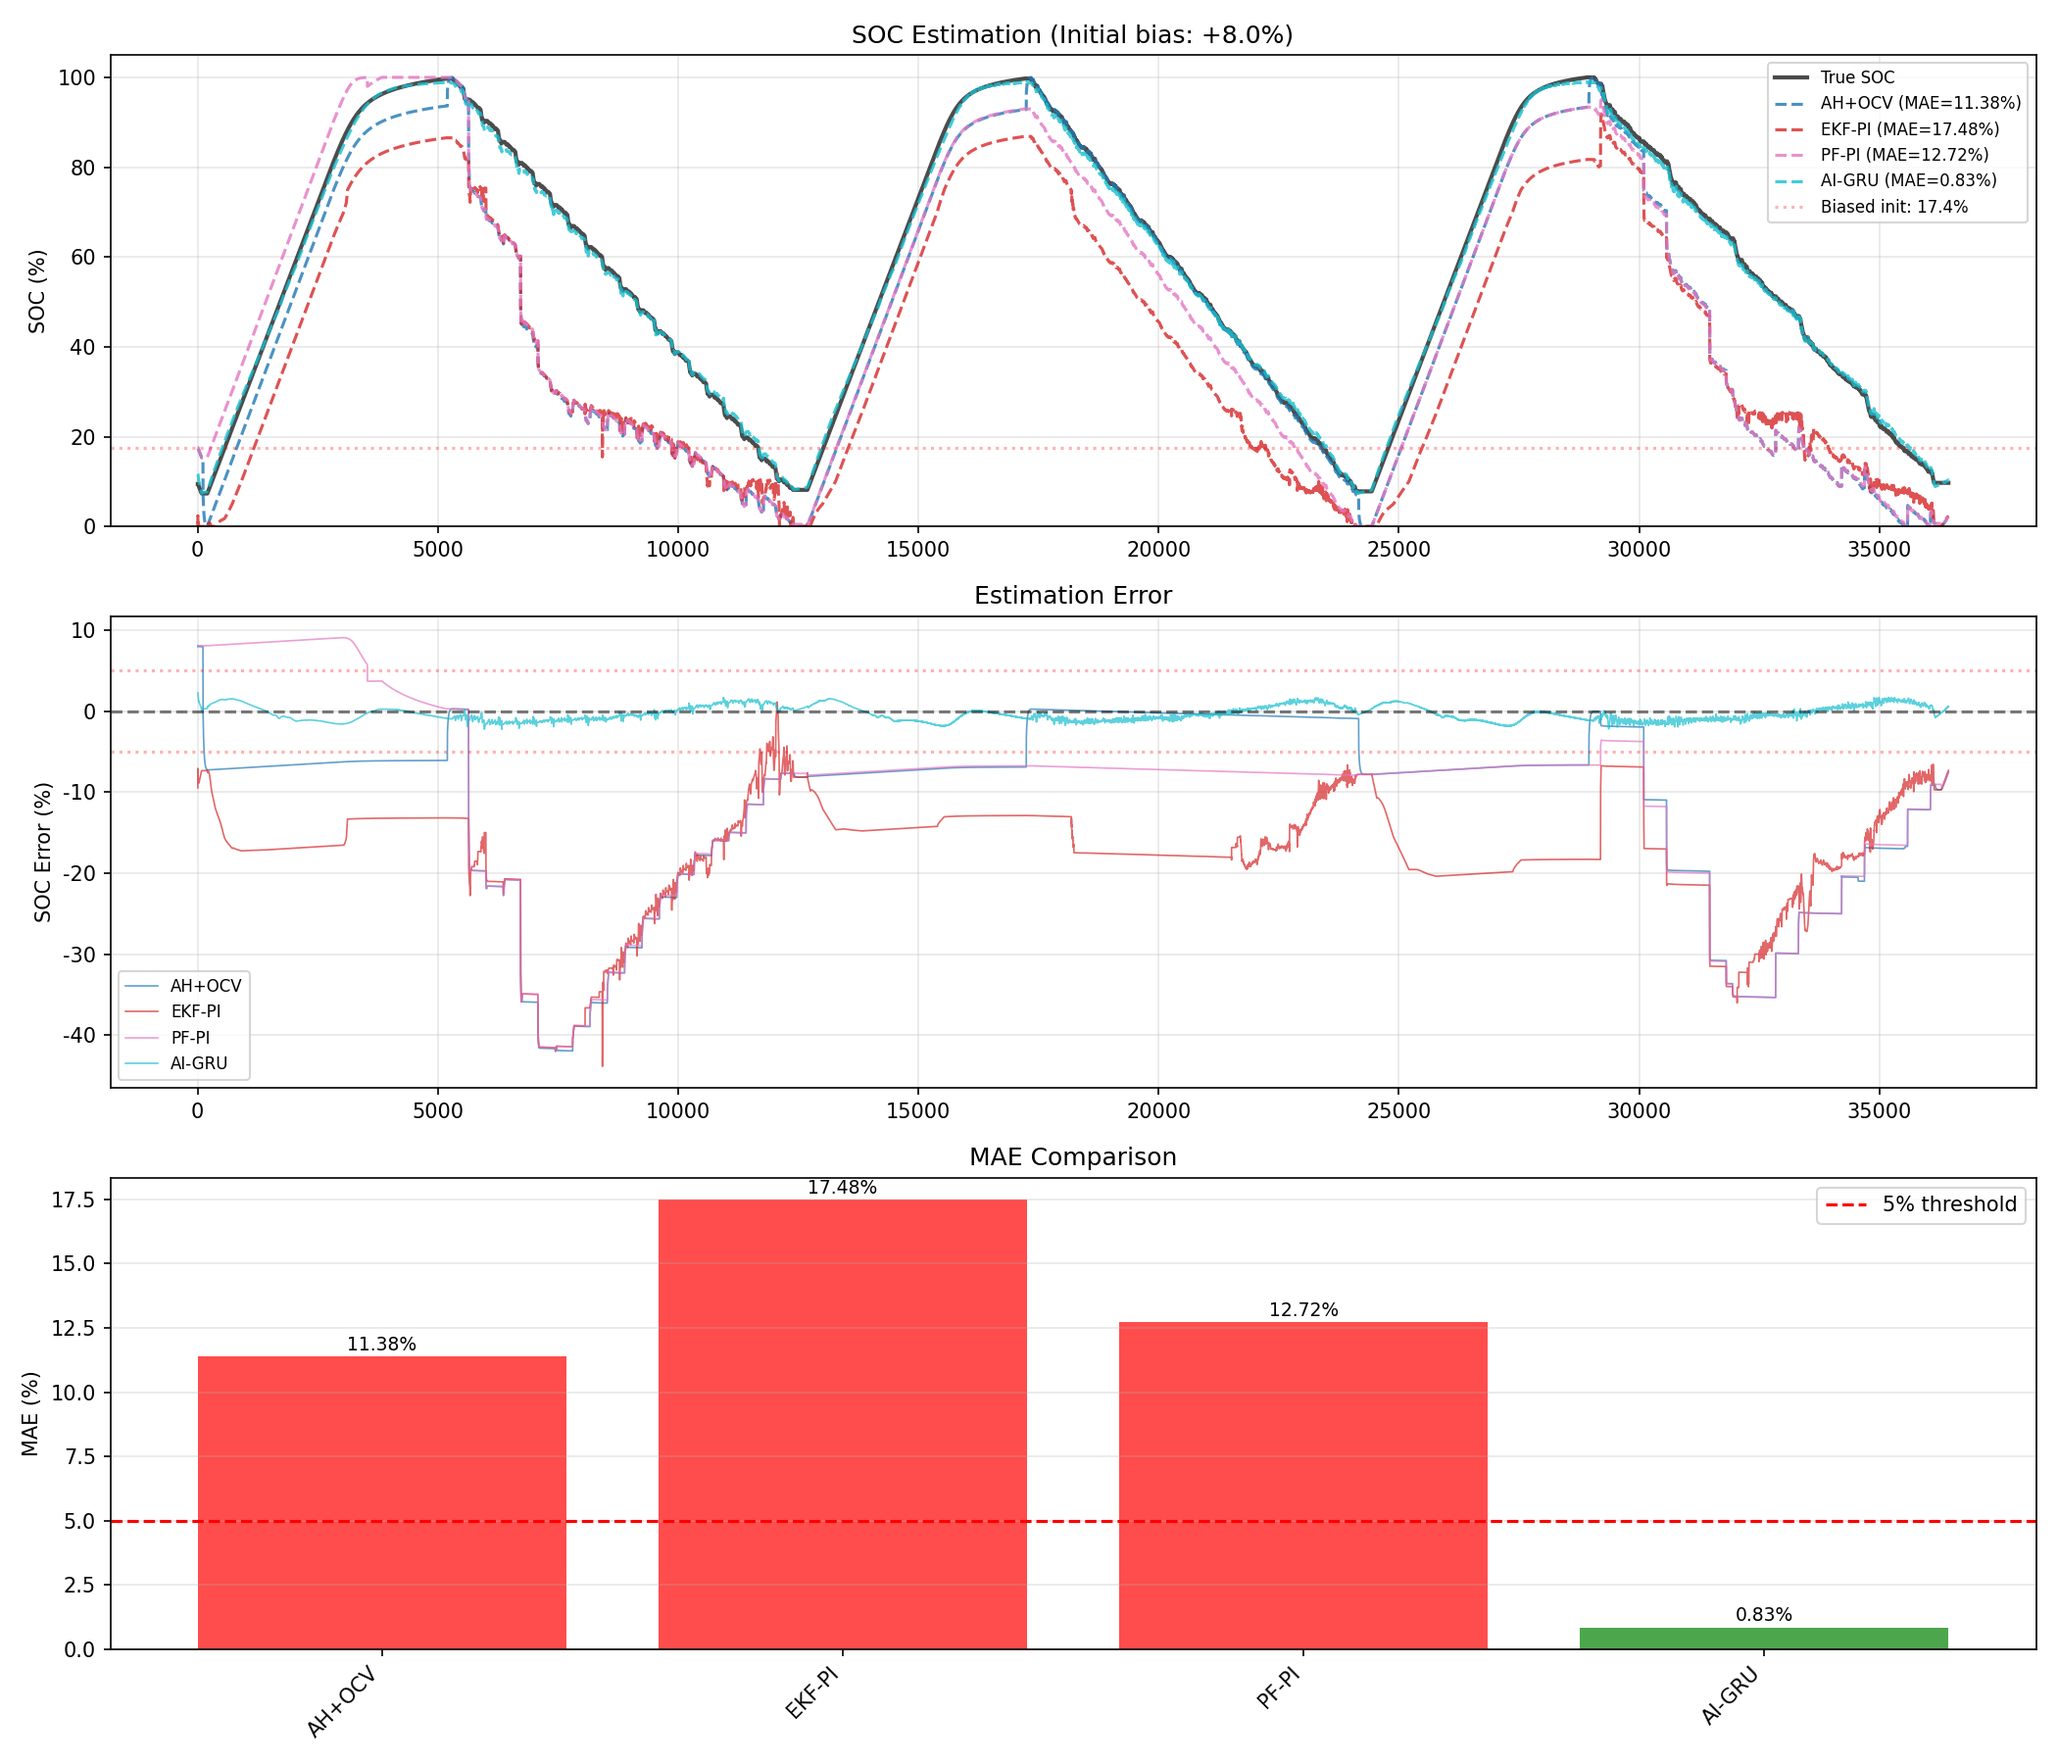
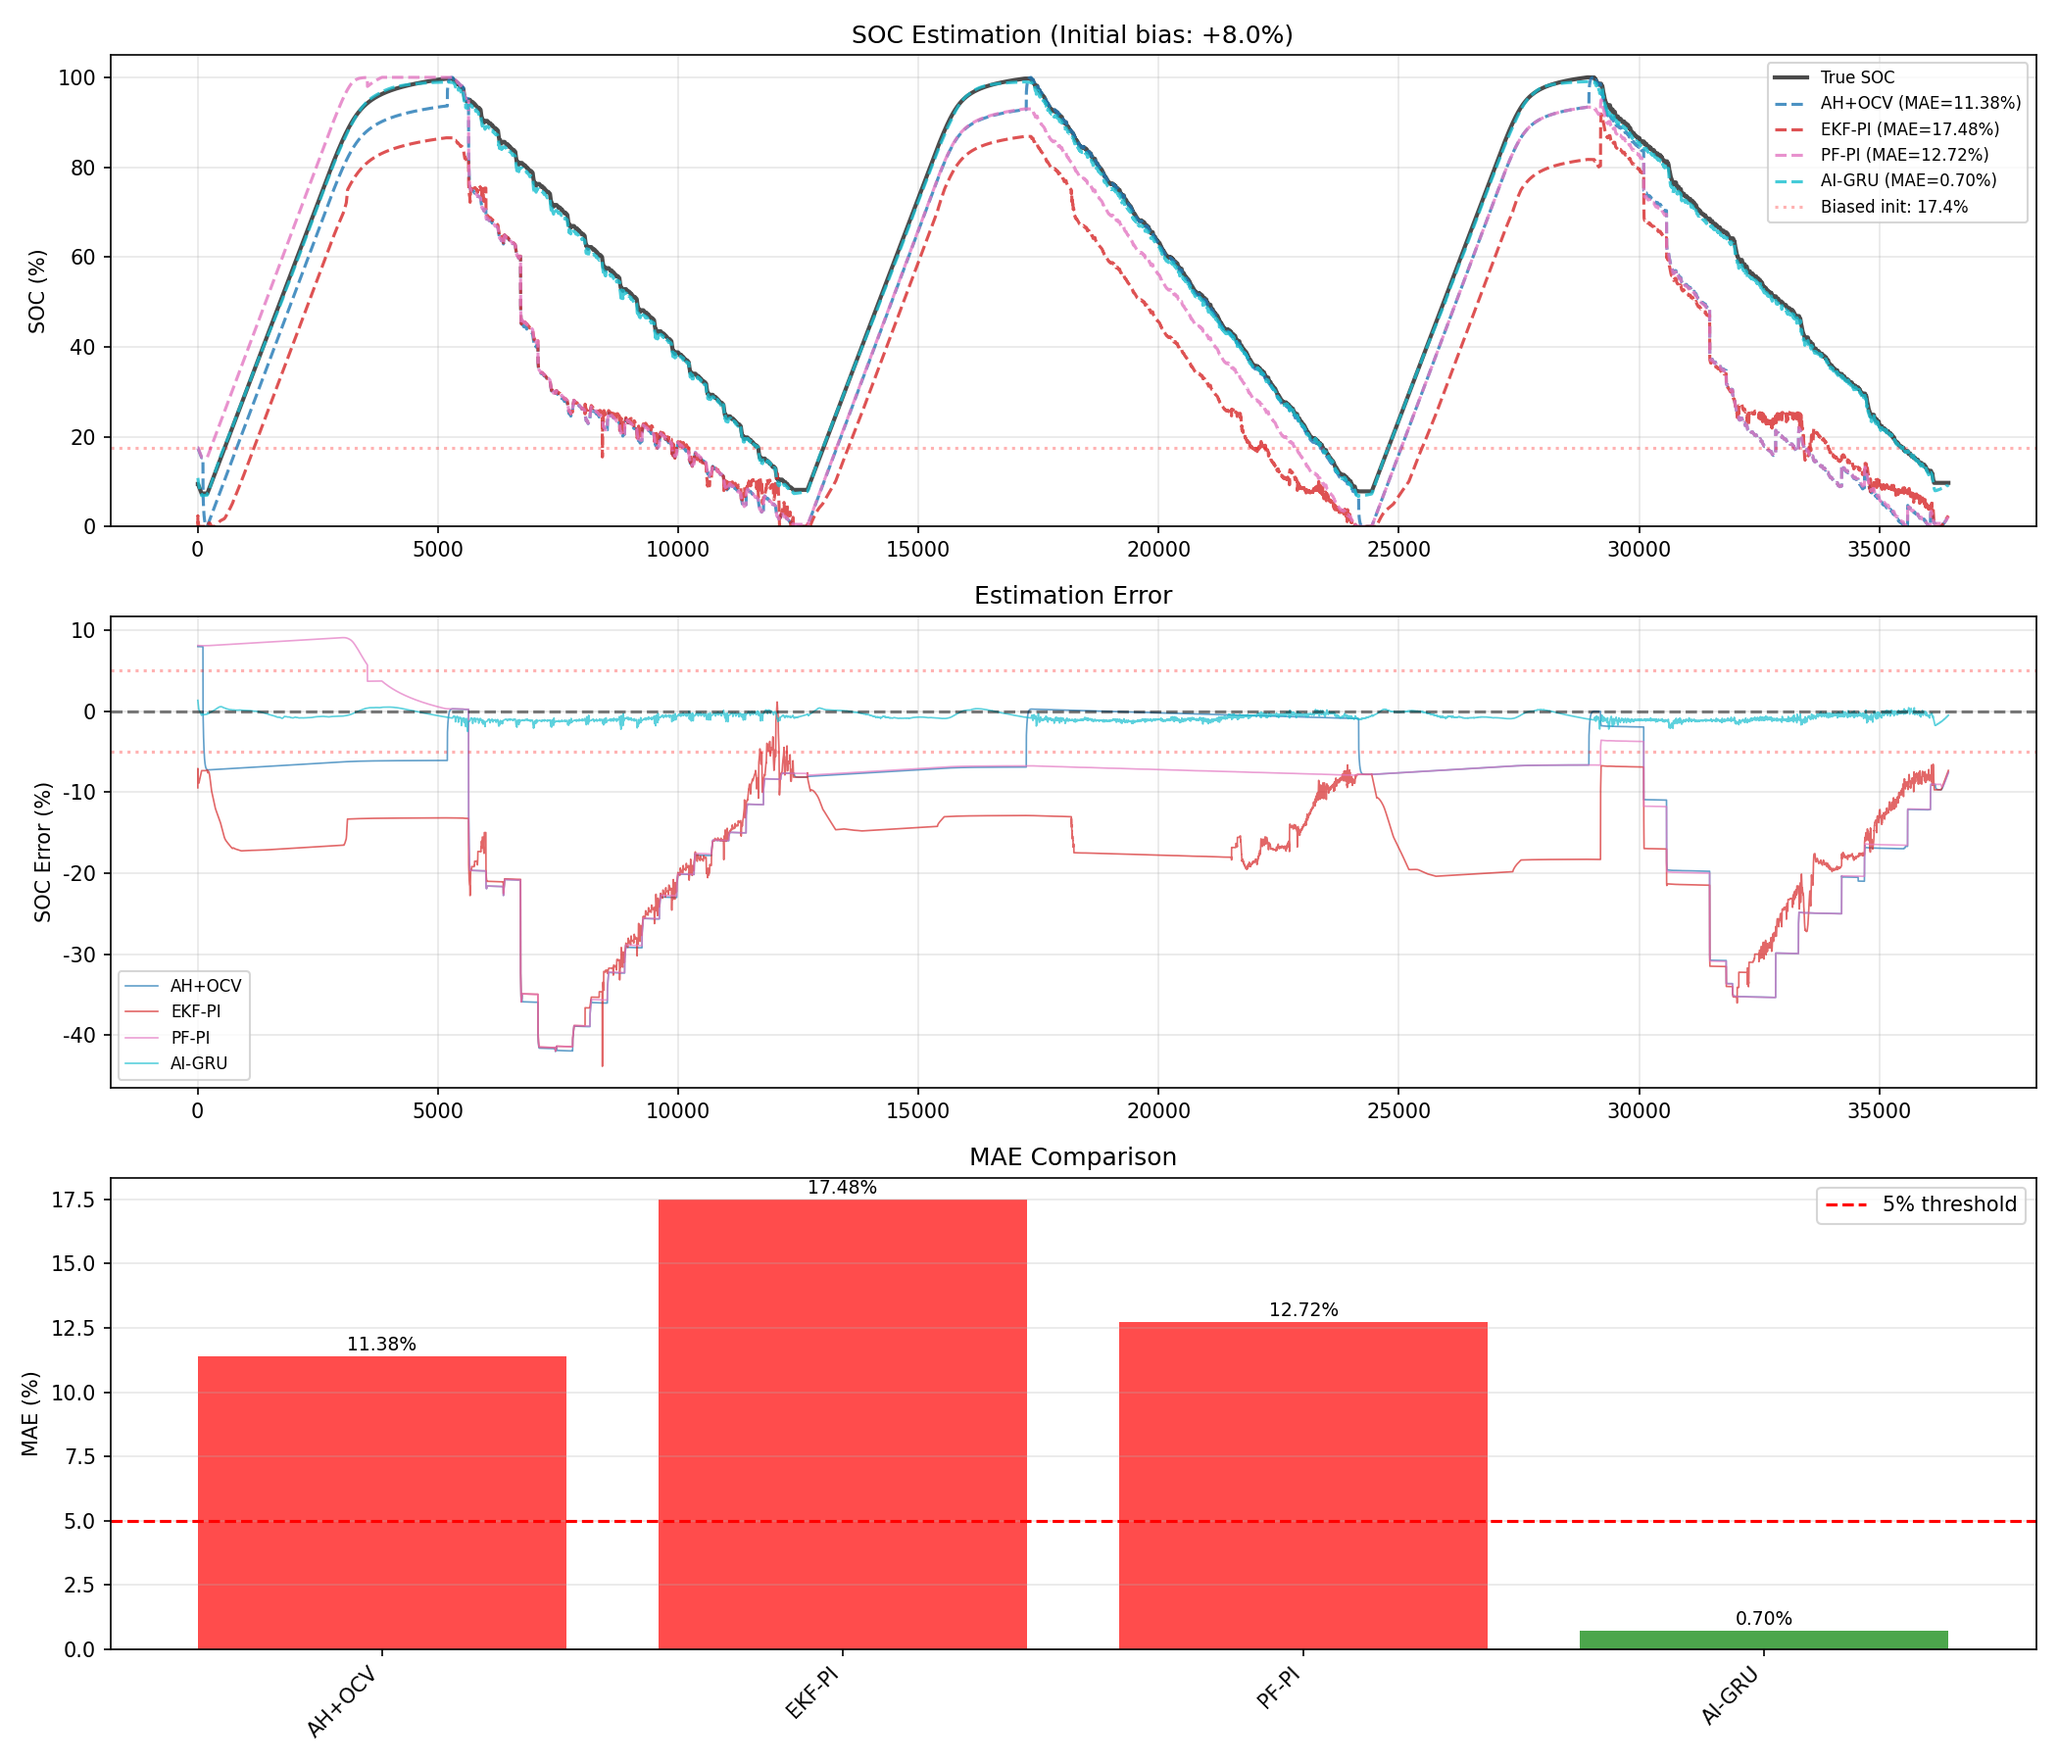
Round 2: Multi-agent iteration
== Agent Collaboration Round 2 ==
  AH+OCV: Avg MaxErr=35.23%, Pass=0/8
  AI-GRU: Avg MaxErr=3.82%, Pass=6/8
  EKF-PI: Avg MaxErr=42.58%, Pass=0/8
  PF-PI: Avg MaxErr=34.42%, Pass=0/8

Target: MaxErr < 5% per file. IN PROGRESS

diff --git a/AGENT_LOG.md b/AGENT_LOG.md
@@ -107,3 +107,75 @@
 == Agent Collaboration Round 1 ==
   AH+OCV: Avg ...
 
+**[Agent-Commit]** (12:50:47):   ✅ 推送成功
+
+
+---
+
+## Round 2
+
+**[Agent-Eval]** (12:50:47): ⚙ 运行Round 2估计 (含AI训练+推理)...
+
+**[Agent-Eval]** (13:31:17): 📊 评估报告 - 按文件和方法统计MaxErr：
+
+**[Agent-Eval]** (13:31:17): 方法总结
+
+| Method | Avg MAE | Avg MaxErr | Worst MaxErr | Pass/Total | Status |
+| --- | --- | --- | --- | --- | --- |
+| AH+OCV | 8.72% | 35.23% | 50.44% | 0/8 | ❌ 8 FAIL |
+| AI-GRU | 1.89% | 3.82% | 6.23% | 6/8 | ❌ 2 FAIL |
+| EKF-PI | 16.18% | 42.58% | 78.01% | 0/8 | ❌ 8 FAIL |
+| PF-PI | 9.77% | 34.42% | 50.50% | 0/8 | ❌ 8 FAIL |
+
+**[Agent-Eval]** (13:31:17): 🔍 失败文件分析 (26 条记录)：
+
+**[Agent-Eval]** (13:31:17): 失败详情
+
+| Temp | Method | MaxErr | MaxErr@Time | ErrStart | ErrEnd | 原因 |
+| --- | --- | --- | --- | --- | --- | --- |
+| 0°C | AH+OCV | 50.4% | 7855s | 10.0% | 11.3% | 初始偏差未收敛 |
+| 0°C | EKF-PI | 78.0% | 27493s | 10.0% | 11.1% | 初始偏差未收敛 |
+| 0°C | PF-PI | 50.5% | 7855s | 10.0% | 11.3% | 初始偏差未收敛 |
+| 10°C | AH+OCV | 42.0% | 7446s | 8.0% | 7.6% | 初始偏差未收敛 |
+| 10°C | EKF-PI | 43.8% | 8423s | 9.5% | 7.3% | 初始偏差未收敛 |
+| 10°C | PF-PI | 41.9% | 7448s | 8.1% | 7.6% | 初始偏差未收敛 |
+| 20°C | AH+OCV | 35.9% | 7416s | 8.2% | 5.9% | 初始偏差未收敛 |
+| 20°C | EKF-PI | 40.1% | 20120s | 8.0% | 5.9% | 初始偏差未收敛 |
+| 20°C | PF-PI | 35.4% | 7416s | 8.0% | 5.9% | 初始偏差未收敛 |
+| 25°C | AH+OCV | 36.8% | 31454s | 10.0% | 4.5% | 初始偏差未收敛 |
+| 25°C | EKF-PI | 33.5% | 26160s | 4.8% | 4.5% | 容量漂移累积 |
+| 25°C | PF-PI | 32.4% | 7717s | 10.2% | 4.5% | 初始偏差未收敛 |
+| 30°C | AH+OCV | 31.5% | 7575s | 7.0% | 4.1% | 初始偏差未收敛 |
+| 30°C | EKF-PI | 31.0% | 7575s | 2.7% | 4.1% | 容量漂移累积 |
+| 30°C | PF-PI | 31.0% | 7575s | 2.7% | 4.1% | 容量漂移累积 |
+| 40°C | AH+OCV | 32.1% | 30849s | 3.1% | 2.7% | 容量漂移累积 |
+| 40°C | EKF-PI | 27.1% | 27058s | 3.0% | 2.7% | 容量漂移累积 |
+| 40°C | PF-PI | 26.4% | 7281s | 3.0% | 2.7% | 容量漂移累积 |
+| 40°C | AI-GRU | 5.5% | 9457s | 1.5% | 1.3% | 容量漂移累积 |
+| 50°C | AH+OCV | 24.3% | 31395s | 1.9% | 2.3% | 容量漂移累积 |
+| 50°C | EKF-PI | 23.5% | 31395s | 1.9% | 2.3% | 容量漂移累积 |
+| 50°C | PF-PI | 23.1% | 31395s | 1.0% | 2.3% | 容量漂移累积 |
+| N10°C | AH+OCV | 28.8% | 13150s | 7.0% | 21.3% | 初始偏差未收敛 |
+| N10°C | EKF-PI | 63.6% | 20527s | 15.0% | 20.7% | 初始偏差未收敛 |
+| N10°C | PF-PI | 34.7% | 34558s | 6.8% | 21.3% | 初始偏差未收敛 |
+| N10°C | AI-GRU | 6.2% | 24s | 5.7% | 5.7% | 初始偏差未收敛 |
+
+**[Agent-Eval]** (13:31:17): 💡 建议1: 初始SOC偏差导致 16 条失败。需要: (a) 使用OCV查表估计初始SOC, (b) 增加OCV校准权重, (c) 在非平坦区启用EKF电压校正。
+
+**[Agent-Eval]** (13:31:17): 💡 建议2: 容量漂移导致 10 条失败。需要: (a) 允许持续OCV校准(非单次触发), (b) 增大校准权重, (c) 使用AI方法避免漂移。
+
+**[Agent-Eval]** (13:31:17): 📋 Round 2未完全达标，进入Round 3继续改进...
+
+**[Agent-Algo]** (13:31:17): 📥 收到Agent-Eval的反馈，将在Round 3中继续优化。
+
+**[Agent-AI]** (13:31:17): 📥 收到Agent-Eval的反馈，将调整AI训练策略。
+
+**[Agent-Commit]** (13:31:17): 📊 生成可视化图表...
+
+**[Agent-Commit]** (13:31:17):   ✅ 保存: summary_maxerr_all_methods.png
+
+**[Agent-Commit]** (13:31:17): 📝 提交: Round 2: Multi-agent iteration
+
+== Agent Collaboration Round 2 ==
+  AH+OCV: Avg ...
+
